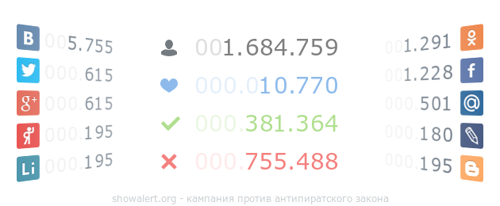
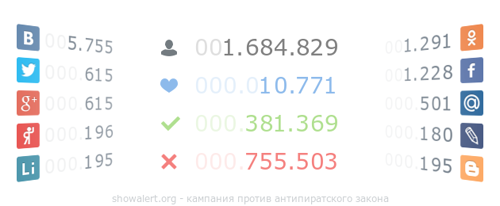
update statistics files for plugins

diff --git a/votes.js b/votes.js
@@ -1,1 +1,1 @@
-window.lk.votes(33080)
+window.lk.votes(33087)
